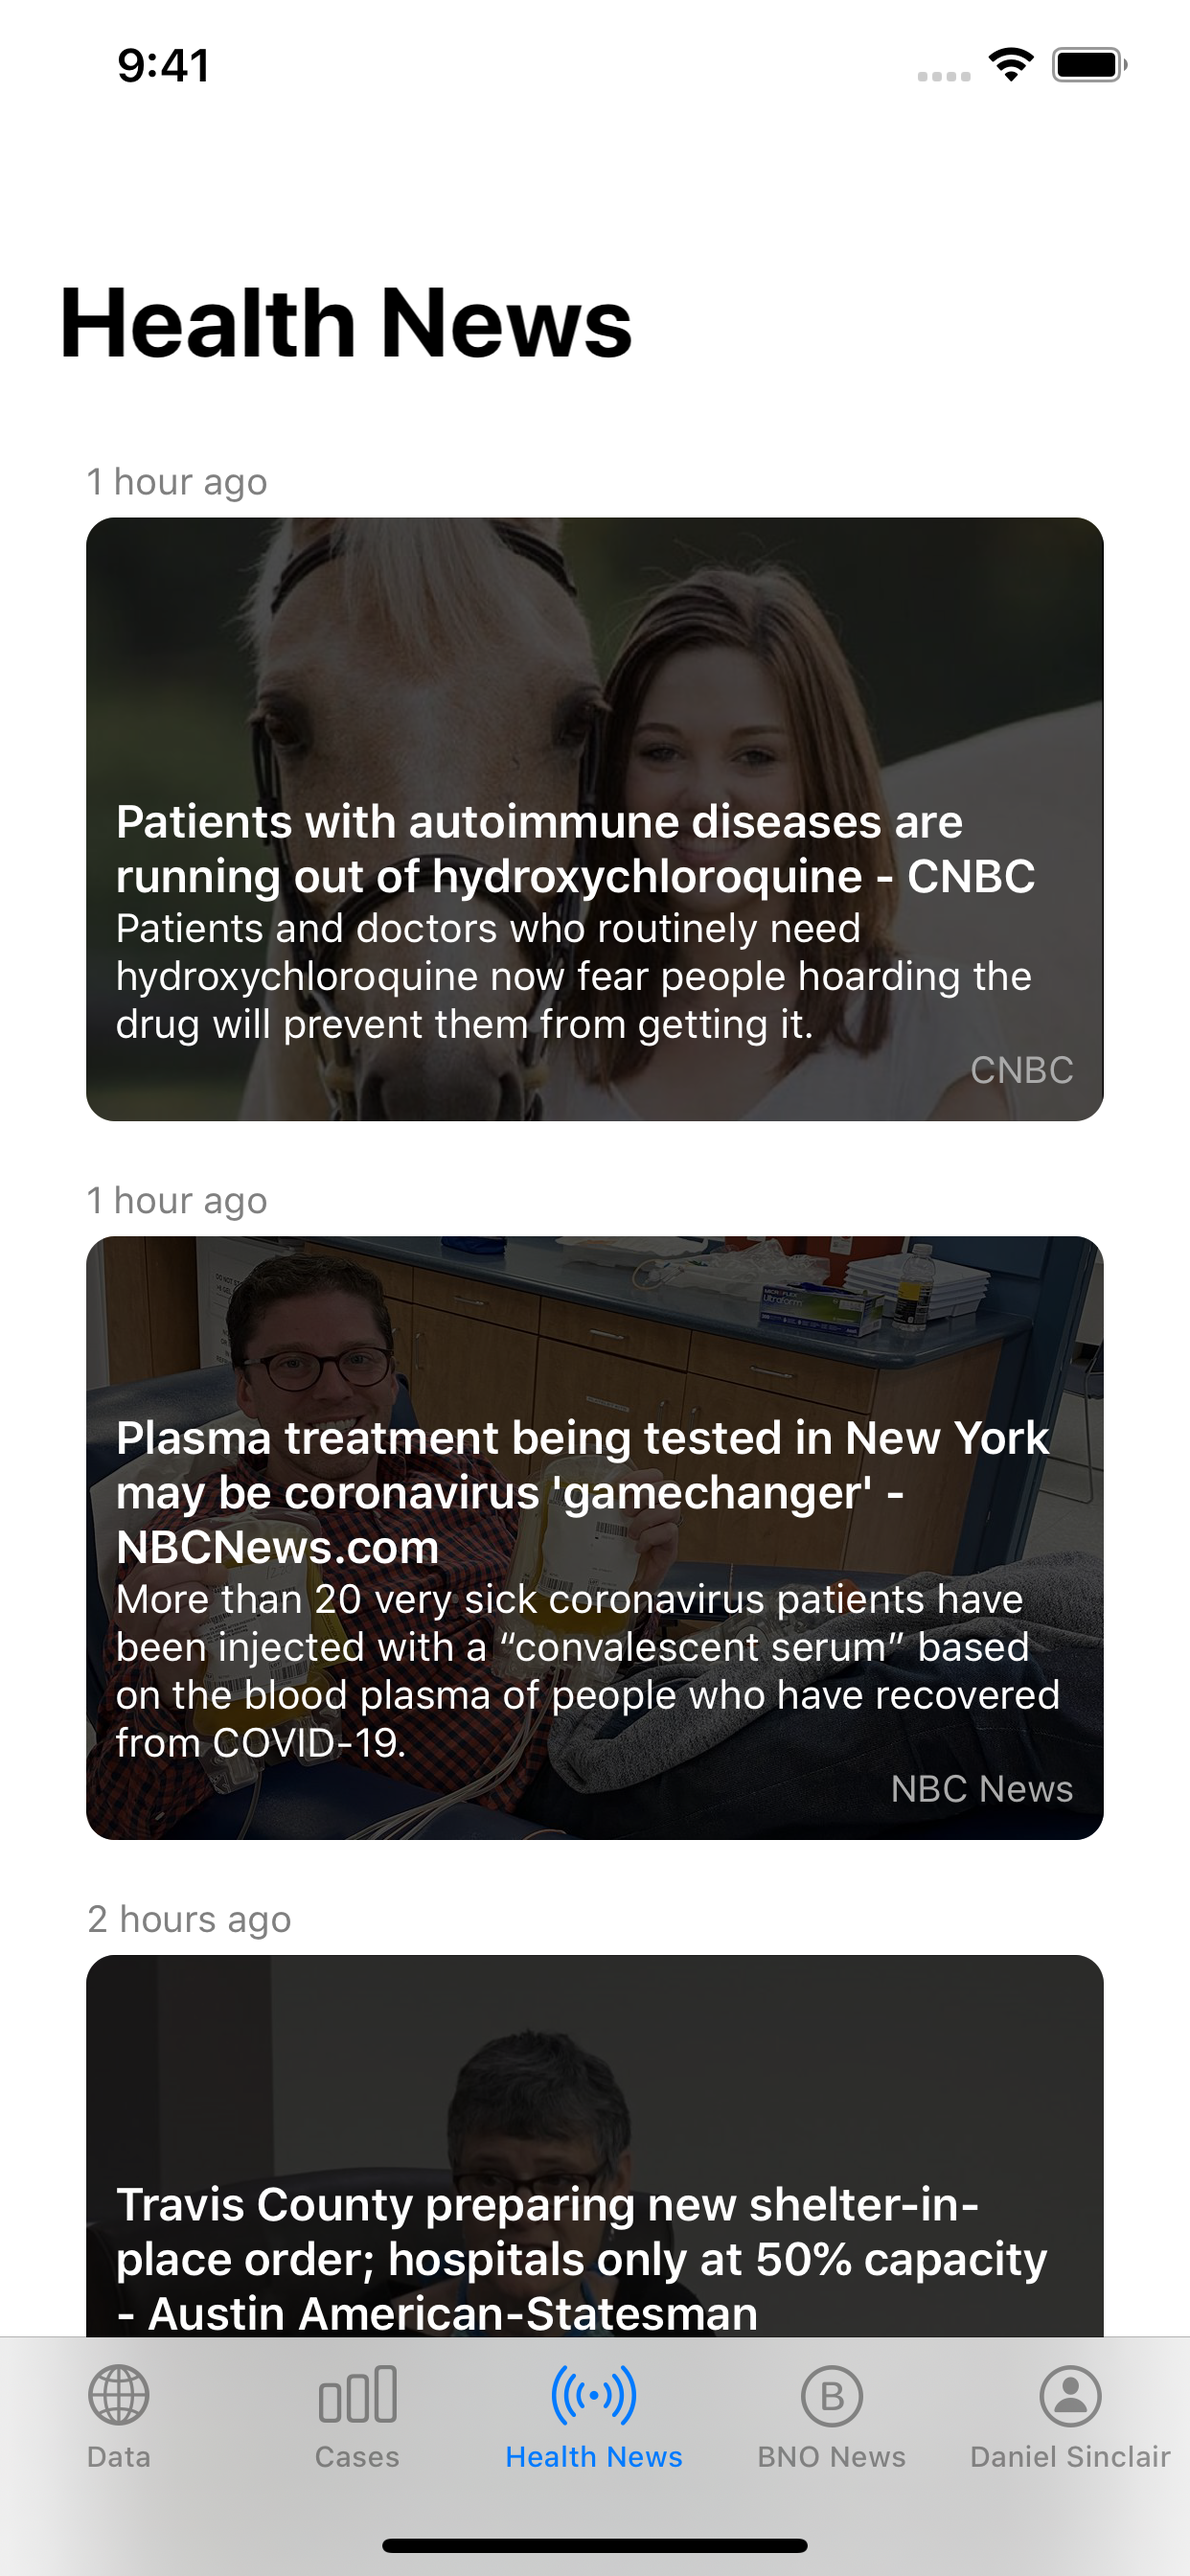
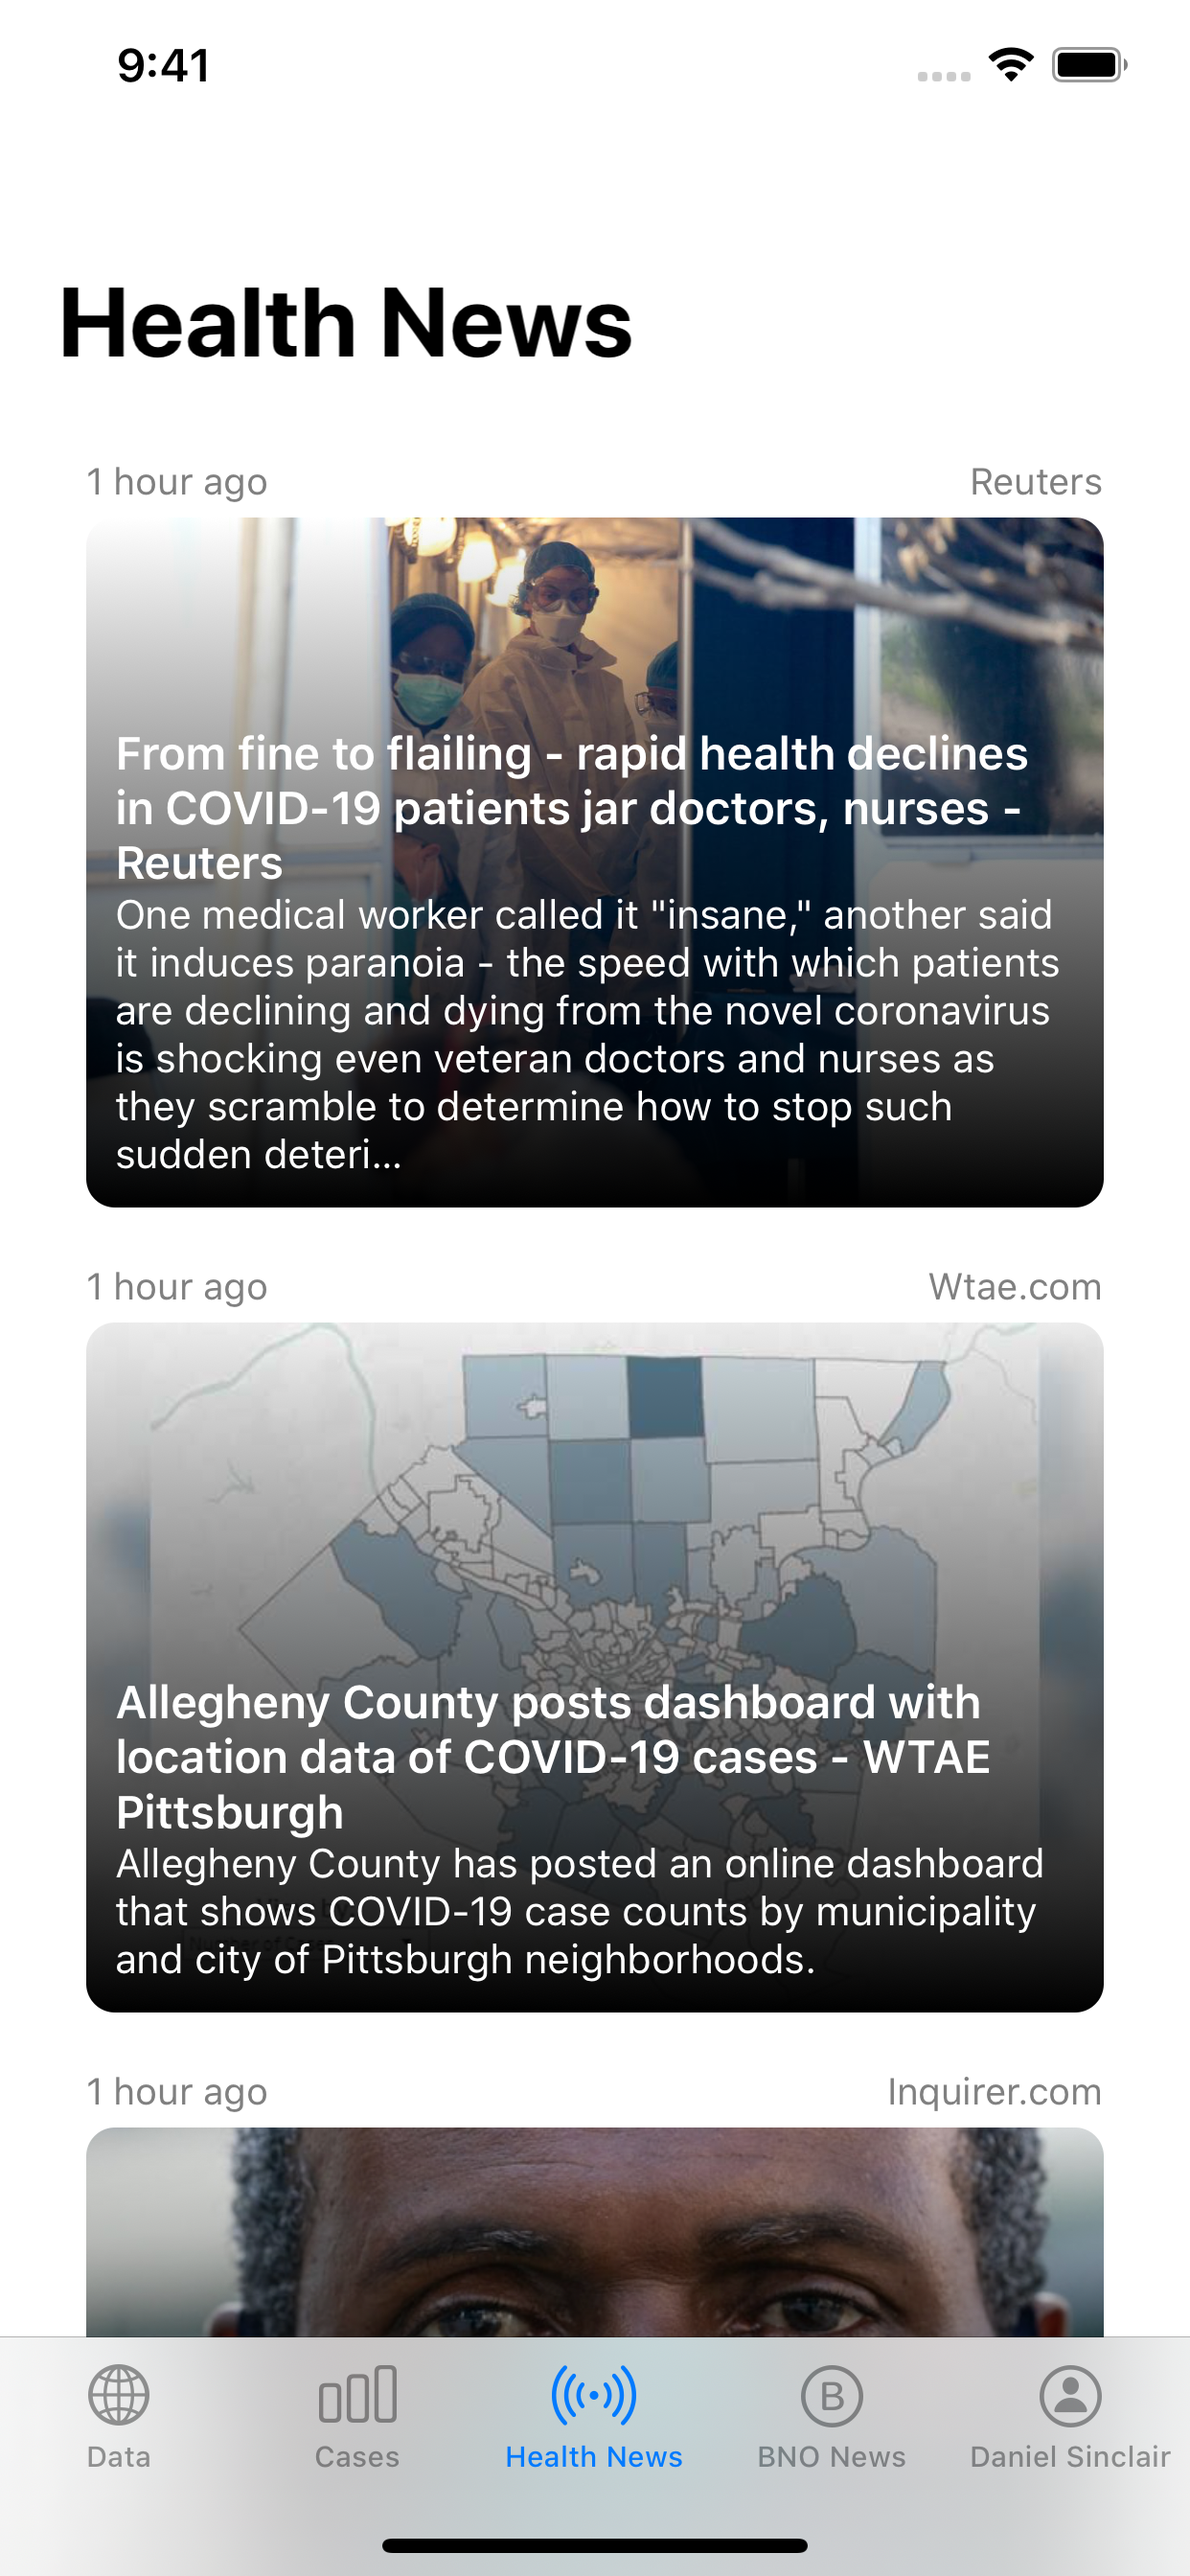
improve cases, news display

diff --git a/Xcode/covid19/DataViewController.swift b/Xcode/covid19/DataViewController.swift
@@ -138,7 +138,7 @@ extension DataViewController {
         section.contentInsets = NSDirectionalEdgeInsets(top: 0, leading: 30, bottom: 30, trailing: 10)
 
         let headerFooterSize = NSCollectionLayoutSize(widthDimension: .fractionalWidth(1.0),
-                                                      heightDimension: .estimated(120))
+                                                      heightDimension: .estimated(85))
         let sectionHeader = NSCollectionLayoutBoundarySupplementaryItem(
             layoutSize: headerFooterSize,
             elementKind: DataViewController.sectionHeaderElementKind, alignment: .top)
@@ -164,6 +164,8 @@ extension DataViewController: UICollectionViewDataSource {
     func collectionView(_ collectionView: UICollectionView, cellForItemAt indexPath: IndexPath) -> UICollectionViewCell {
         let cell = collectionView.dequeueReusableCell(withReuseIdentifier: BarCell.cellId, for: indexPath) as! BarCell
 
+        cell.row = indexPath.section
+
         let country = self.countries[indexPath.section]
         cell.height = country.height(index: indexPath.row, height: 44)
 
@@ -173,21 +175,30 @@ extension DataViewController: UICollectionViewDataSource {
     func collectionView(_ collectionView: UICollectionView, viewForSupplementaryElementOfKind kind: String, at indexPath: IndexPath) -> UICollectionReusableView {
         let cell = collectionView.dequeueReusableSupplementaryView(ofKind: DataViewController.sectionHeaderElementKind, withReuseIdentifier: DataView.viewId, for: indexPath) as! DataView
 
+        cell.row = indexPath.section
+
         let country = self.countries[indexPath.section]
-        cell.dateLabel.text = country.country
-        cell.label.attributedText = country.confirmedAttributedText()
+        cell.countryLabel.text = country.country
+        cell.casesLabel.attributedText = country.confirmedAttributedText(indexPath.section)
 
         return cell
     }
 }
 
+private extension UIColor {
+    static func colorForRow(_ row: Int) -> UIColor {
+        return row % 2 == 0 ? .red : UIColor.systemPink
+    }
+}
+
 private extension Country {
-    func confirmedAttributedText() -> NSAttributedString {
+    func confirmedAttributedText(_ row: Int) -> NSAttributedString {
         let paragraphStyle = NSMutableParagraphStyle()
         paragraphStyle.alignment = .right
 
         let titleAttribute: [NSAttributedString.Key: Any] = [
             .paragraphStyle: paragraphStyle,
+            .foregroundColor: UIColor.colorForRow(row),
             .font: UIFont.monospacedSystemFont(ofSize: 65, weight: .regular)
         ]
 
@@ -249,6 +260,8 @@ extension Country {
 class BarCell: UICollectionViewCell {
     static let cellId = "BarCell"
 
+    var row = 0
+
     let barView = UIView()
 
     var height: CGFloat = 44
@@ -256,7 +269,7 @@ class BarCell: UICollectionViewCell {
     override func layoutSubviews() {
         super.layoutSubviews()
 
-        barView.backgroundColor = .red
+        barView.backgroundColor = UIColor.colorForRow(row)
 
         self.addSubview(barView)
         barView.translatesAutoresizingMaskIntoConstraints = false
@@ -278,34 +291,38 @@ class BarCell: UICollectionViewCell {
 class DataView: UICollectionReusableView {
     static let viewId = "DataCell"
 
-    let label = UILabel()
-    let dateLabel = UILabel()
+    var row = 0
+
+    let countryLabel = UILabel()
+    let casesLabel = UILabel()
 
     override func layoutSubviews() {
         super.layoutSubviews()
 
-        self.addSubview(dateLabel)
-        dateLabel.translatesAutoresizingMaskIntoConstraints = false
+        countryLabel.textColor = UIColor.colorForRow(row)
 
-        self.addSubview(label)
-        label.translatesAutoresizingMaskIntoConstraints = false
+        self.addSubview(countryLabel)
+        countryLabel.translatesAutoresizingMaskIntoConstraints = false
+
+        self.addSubview(casesLabel)
+        casesLabel.translatesAutoresizingMaskIntoConstraints = false
 
         NSLayoutConstraint.activate([
-            dateLabel.topAnchor.constraint(equalTo: self.topAnchor),
-            dateLabel.heightAnchor.constraint(equalToConstant: 25),
-            dateLabel.leadingAnchor.constraint(equalTo: self.leadingAnchor),
-            dateLabel.trailingAnchor.constraint(equalTo: self.trailingAnchor),
+            countryLabel.topAnchor.constraint(equalTo: self.topAnchor),
+            countryLabel.leadingAnchor.constraint(equalTo: self.leadingAnchor),
+            countryLabel.trailingAnchor.constraint(equalTo: self.trailingAnchor),
 
-            label.leadingAnchor.constraint(equalTo: self.leadingAnchor, constant: 10),
-            label.trailingAnchor.constraint(equalTo: self.trailingAnchor, constant: -10),
-            label.bottomAnchor.constraint(equalTo: self.bottomAnchor, constant: -10)
+            casesLabel.leadingAnchor.constraint(equalTo: self.leadingAnchor, constant: 10),
+            casesLabel.trailingAnchor.constraint(equalTo: self.trailingAnchor, constant: -10),
+            casesLabel.heightAnchor.constraint(equalToConstant: 60),
+            casesLabel.topAnchor.constraint(equalTo: countryLabel.bottomAnchor)
         ])
     }
 
     override func prepareForReuse() {
         super.prepareForReuse()
 
-        dateLabel.attributedText = nil
-        label.attributedText = nil
+        countryLabel.attributedText = nil
+        casesLabel.attributedText = nil
     }
 }

diff --git a/Xcode/covid19/NewsCell.swift b/Xcode/covid19/NewsCell.swift
@@ -23,9 +23,9 @@ class NewsCell: UICollectionViewCell {
     }
 
     private let imageView = UIImageView()
-    private let colorView = UIView()
     let label = UILabel()
     let dateLabel = UILabel()
+    let sourceLabel = UILabel()
 
     override func layoutSubviews() {
         super.layoutSubviews()
@@ -33,11 +33,11 @@ class NewsCell: UICollectionViewCell {
         contentView.addSubview(imageView)
         imageView.translatesAutoresizingMaskIntoConstraints = false
 
-        contentView.addSubview(colorView)
-        colorView.translatesAutoresizingMaskIntoConstraints = false
-
         contentView.addSubview(dateLabel)
         dateLabel.translatesAutoresizingMaskIntoConstraints = false
+
+        contentView.addSubview(sourceLabel)
+        sourceLabel.translatesAutoresizingMaskIntoConstraints = false
 
         contentView.addSubview(label)
         label.translatesAutoresizingMaskIntoConstraints = false
@@ -46,16 +46,14 @@ class NewsCell: UICollectionViewCell {
             dateLabel.topAnchor.constraint(equalTo: contentView.topAnchor),
             dateLabel.heightAnchor.constraint(equalToConstant: 25),
             dateLabel.leadingAnchor.constraint(equalTo: contentView.leadingAnchor),
-            dateLabel.trailingAnchor.constraint(equalTo: contentView.trailingAnchor),
+
+            sourceLabel.topAnchor.constraint(equalTo:contentView.topAnchor),
+            sourceLabel.heightAnchor.constraint(equalToConstant: 25),
+            sourceLabel.trailingAnchor.constraint(equalTo: contentView.trailingAnchor),
 
             label.leadingAnchor.constraint(equalTo: contentView.leadingAnchor, constant: 10),
             label.trailingAnchor.constraint(equalTo: contentView.trailingAnchor, constant: -10),
             label.bottomAnchor.constraint(equalTo: contentView.bottomAnchor, constant: -10),
-
-            colorView.topAnchor.constraint(equalTo: dateLabel.bottomAnchor),
-            colorView.leadingAnchor.constraint(equalTo: contentView.leadingAnchor),
-            colorView.trailingAnchor.constraint(equalTo: contentView.trailingAnchor),
-            colorView.bottomAnchor.constraint(equalTo: contentView.bottomAnchor),
 
             imageView.topAnchor.constraint(equalTo: dateLabel.bottomAnchor),
             imageView.leadingAnchor.constraint(equalTo: contentView.leadingAnchor),
@@ -69,7 +67,9 @@ class NewsCell: UICollectionViewCell {
     override func prepareForReuse() {
         super.prepareForReuse()
 
+        imageView.layer.sublayers?.forEach { $0.removeFromSuperlayer() }
         imageView.image = nil
+
         label.attributedText = nil
     }
 
@@ -82,9 +82,9 @@ class NewsCell: UICollectionViewCell {
         imageView.layer.masksToBounds = true
         imageView.contentMode = .scaleAspectFill
 
-        colorView.layer.cornerRadius = cornerRadius
-        colorView.layer.masksToBounds = true
-        colorView.backgroundColor = .black
-        colorView.alpha = 0.7
+        let gradientLayer = CAGradientLayer()
+        gradientLayer.frame = imageView.bounds
+        gradientLayer.colors = [UIColor.clear.cgColor, UIColor.black.cgColor]
+        imageView.layer.insertSublayer(gradientLayer, at: 0)
     }
 }

diff --git a/Xcode/covid19/Extension.swift b/Xcode/covid19/Extension.swift
@@ -9,22 +9,6 @@
 import UIKit
 
 extension Article {
-    func content() -> String {
-        if let source = self.source, let description = self.description {
-            var desc = description
-            if desc != "" {
-                desc = "\(desc)\n"
-            }
-
-            var text = "\(self.title ?? "")\n\(desc)\(source.name ?? "")"
-            text = text.escapeHtml()
-
-            return text
-        }
-
-        return ""
-    }
-
     func attributedDate() -> NSAttributedString {
         guard let publishedAt = self.publishedAt else {
             return NSAttributedString()
@@ -41,47 +25,36 @@ extension Article {
             .foregroundColor: UIColor.gray
         ]
 
-        return NSAttributedString(string: "\(date.timeAgoSinceDate())\n", attributes: attribute)
+        return NSAttributedString(string: "\(date.timeAgoSinceDate())", attributes: attribute)
     }
 
-    func attributedContent() -> NSAttributedString {
+    func attributedSource() -> NSAttributedString {
         guard let source = self.source,
-            let name = source.name,
-            let description = self.description,
-            let title = self.title else {
+            let name = source.name else {
                 return NSAttributedString()
         }
 
-        var desc = description.escapeHtml()
+        let attribute: [NSAttributedString.Key: Any] = [
+            .font: UIFont.systemFont(ofSize: 13),
+            .foregroundColor: UIColor.gray
+        ]
 
-        // Handle when description is empty.
-        if desc != "" {
-            desc = "\(desc)\n"
-        }
+        return NSAttributedString(string: "\(name)", attributes: attribute)
+    }
 
+    func attributedContent() -> NSAttributedString {
         let titleAttribute: [NSAttributedString.Key: Any] = [
             .font: UIFont.boldSystemFont(ofSize: 16),
             .foregroundColor: UIColor.white
         ]
-        let a = NSMutableAttributedString.init(string: "\(title)\n", attributes: titleAttribute)
+        let a = NSMutableAttributedString.init(string: "\(title ?? "")\n", attributes: titleAttribute)
 
         let whiteColorAttribute: [NSAttributedString.Key: Any] = [
             .font: UIFont.systemFont(ofSize: 14),
             .foregroundColor: UIColor.white
         ]
-        let b =  NSAttributedString.init(string: desc, attributes: whiteColorAttribute)
+        let b =  NSAttributedString.init(string: description ?? content ?? "", attributes: whiteColorAttribute)
         a.append(b)
-
-        let paragraphStyle = NSMutableParagraphStyle()
-        paragraphStyle.alignment = .right
-        let nameAttribute: [NSAttributedString.Key: Any] = [
-            .foregroundColor: UIColor.lightGray,
-            .paragraphStyle: paragraphStyle,
-            .font: UIFont.systemFont(ofSize: 13)
-        ]
-
-        let c = NSAttributedString.init(string: "\(name)", attributes: nameAttribute)
-        a.append(c)
 
         return a
     }

diff --git a/Xcode/covid19/NewsViewController.swift b/Xcode/covid19/NewsViewController.swift
@@ -69,17 +69,18 @@ class NewsViewController: UIViewController {
         item.contentInsets = NSDirectionalEdgeInsets(top: inset, leading: sideInset, bottom: 0, trailing: sideInset)
 
         let groupSize = NSCollectionLayoutSize(widthDimension: .fractionalWidth(1.0),
-                                               heightDimension: .absolute(250))
+                                               heightDimension: .absolute(280))
         let group = NSCollectionLayoutGroup.horizontal(layoutSize: groupSize,
                                                        subitems: [item])
 
         let section = NSCollectionLayoutSection(group: group)
+        section.contentInsets = NSDirectionalEdgeInsets(top: 0, leading: 0, bottom: sideInset, trailing: 0)
 
         let layout = UICollectionViewCompositionalLayout(section: section)
         return layout
     }
 
-    @objc private func getData() {        
+    @objc private func getData() {
         get("https://newsapi.org/v2/top-headlines?country=us&apiKey=\(apiKey)&category=health") { articles in
             self.articles = articles
 
@@ -133,6 +134,7 @@ extension NewsViewController: UICollectionViewDataSource {
         c.urlString = article.urlToImage
         c.label.attributedText = article.attributedContent()
         c.dateLabel.attributedText = article.attributedDate()
+        c.sourceLabel.attributedText = article.attributedSource()
 
         return c
     }

diff --git a/Xcode/covid19/NewsModel.swift b/Xcode/covid19/NewsModel.swift
@@ -17,6 +17,7 @@ struct Headline: Codable {
 struct Article: Codable {
     var title: String?
     var description: String?
+    var content: String?
     var url: String?
     var urlToImage: String?
     var publishedAt: String?
